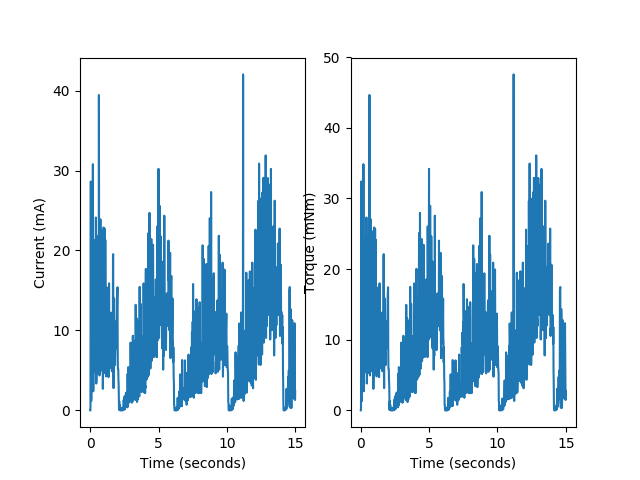
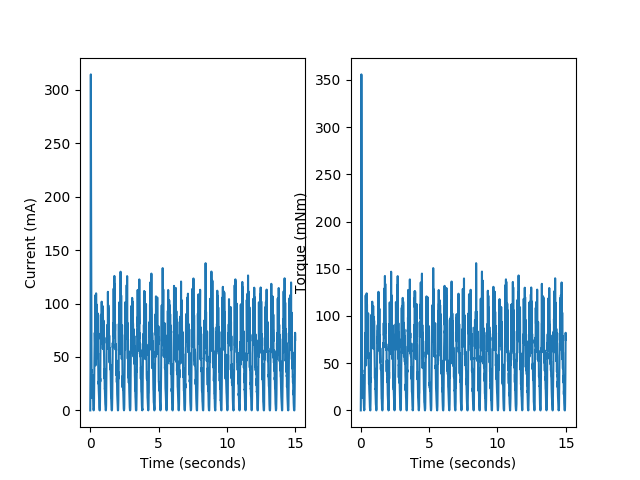
good gains and a zeroing test

diff --git a/kinematics_controls/current_testing.py b/kinematics_controls/current_testing.py
@@ -51,14 +51,14 @@ start_time = time.time()
 enc_position = np.zeros(8)
 while(time.time()-start_time < sensing_time):
 	dt = time.time() - start_time
-	enc_position = np.ones(8)*np.sin(dt * .25 * 3.14) * 4000
+	enc_position = np.ones(8)*np.sin(dt * 2.25 * 3.14) * 4000
 	motors.command_motors(enc_position)
 	#motors.command_motors(np.zeros(8))
 	current = 1000*motors.avg_current
 	time_vals.append(time.time()-start_time)
 	current_vals.append(current)
 	#print("{:.3f} mA".format(current))
-	time.sleep(0.01)
+	time.sleep(0.005)
 
 time_vals = np.array(time_vals)
 current_vals = np.array(current_vals)
